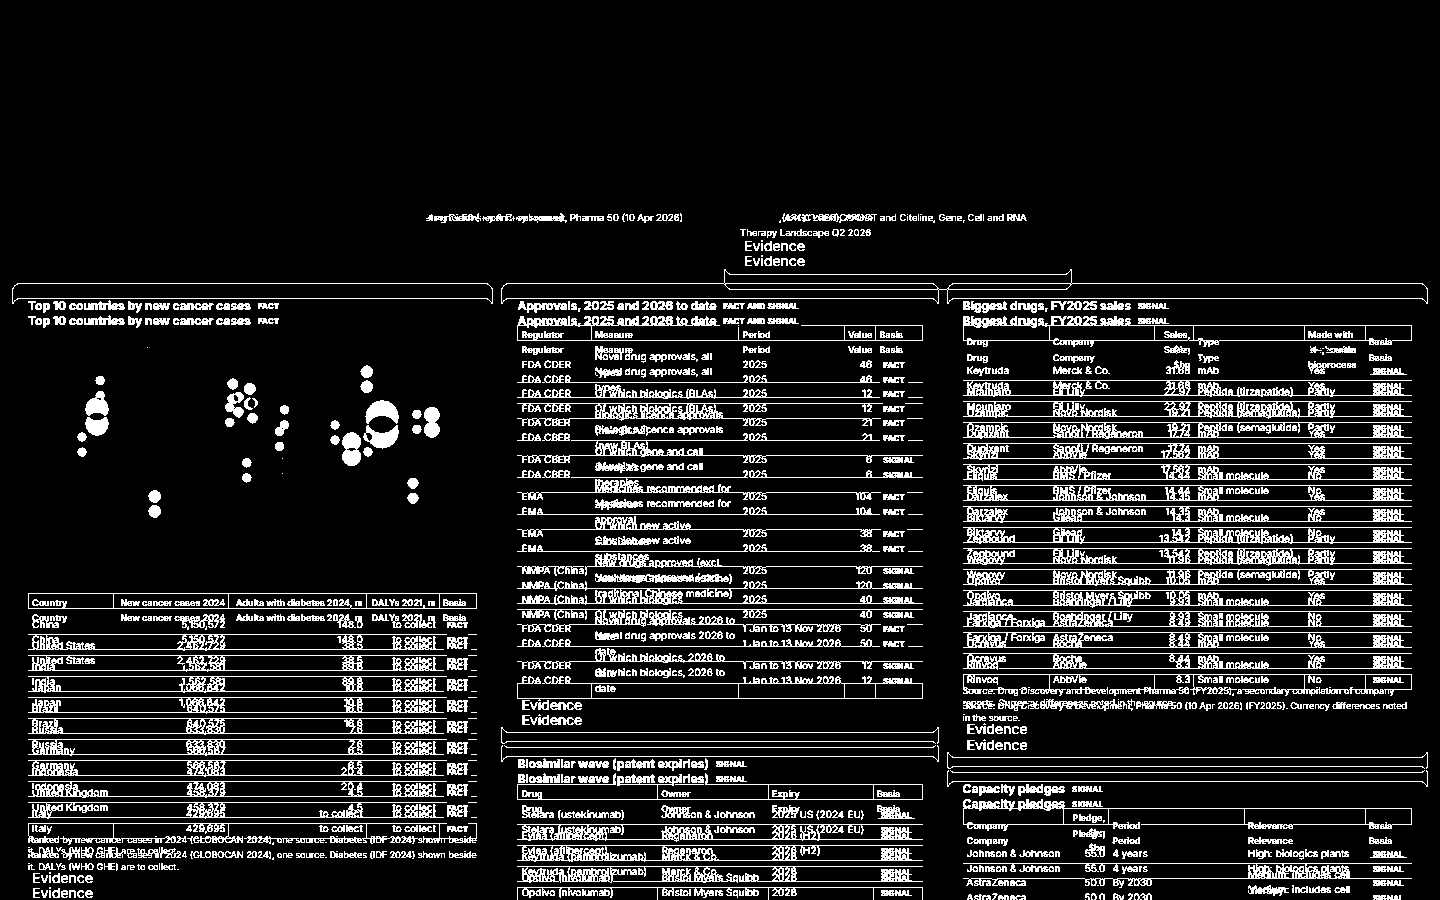
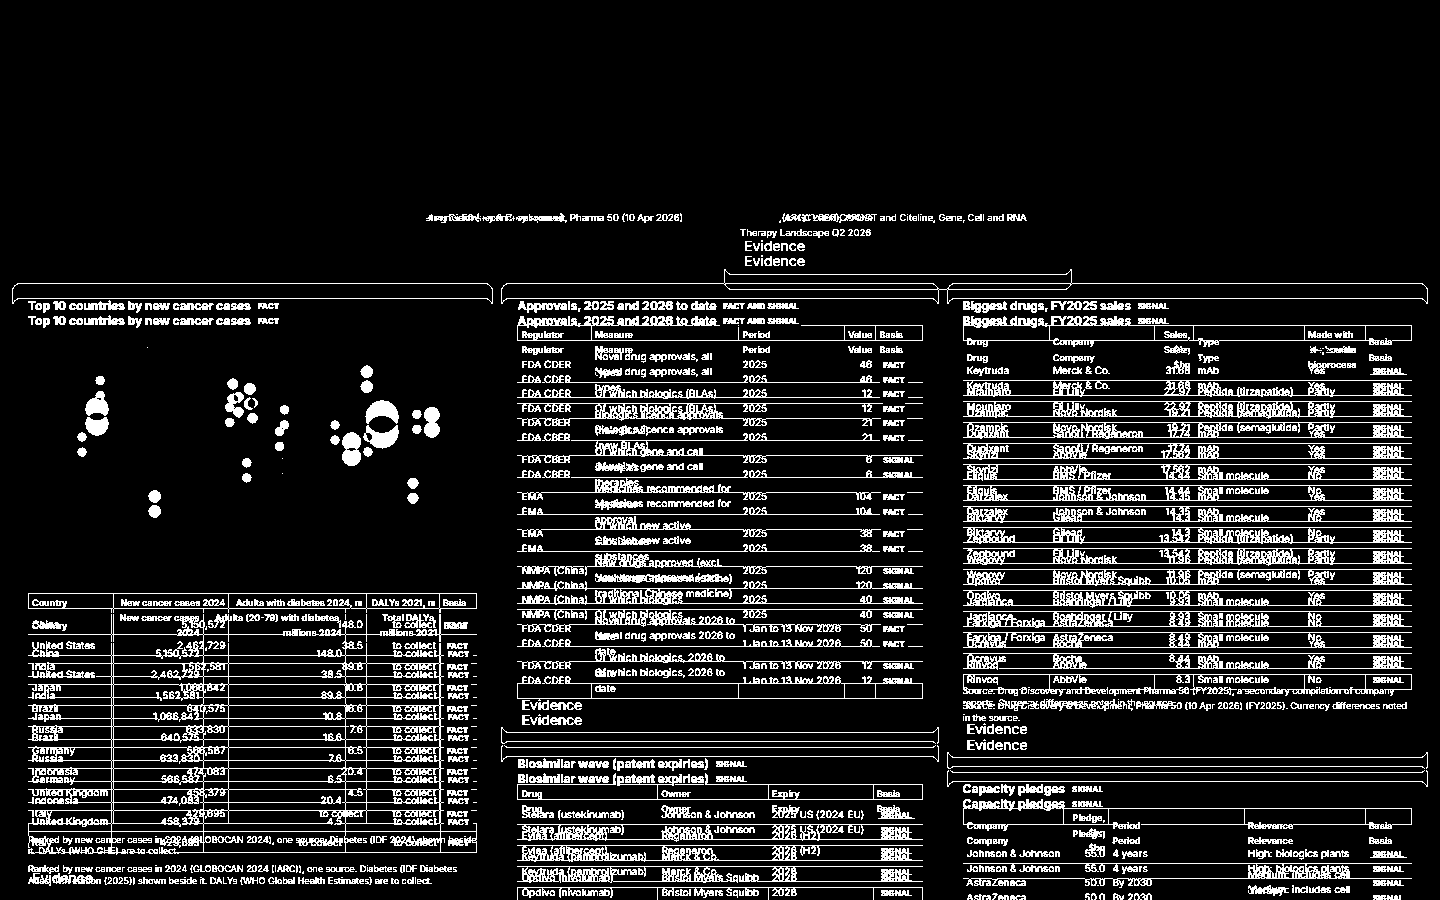
CD-61: audit and progress for round 7; check 2 passes for sheet-backed tables; check 4 still fails on a strict reading; screenshots re-taken (315 tests passed)

Changed region(s): [[0.0, 0.6844, 0.3438, 1.0]]

diff --git a/docs/Claude outputs/CLAUDE_data_architecture.md b/docs/Claude outputs/CLAUDE_data_architecture.md
@@ -1,0 +1,94 @@
+## Data architecture
+
+### Layers
+Data moves one way only: **Google Sheets → CSV snapshots → SQLite → screens**.
+
+1. **Seed sheets (Google Sheets)**
+   - This is where people maintain the data. It is not runtime storage.
+   - Read-only from code. **Never write to Google from code**: no API writes, no edits through a connector.
+2. **CSV snapshots (`data/<area>/sheet/*.csv`)**
+   - One file per tab, committed to git, so every data change shows up as a reviewable diff.
+   - Produced **only** by `scripts/export_seed_sheets.py`. Never type a CSV by hand, and never paste one from tool output.
+   - Sheet IDs and tab IDs (gids) live in `seed_sheet_gids.yaml`.
+   - The script uses the plain export URL `https://docs.google.com/spreadsheets/d/<id>/export?format=csv&gid=<gid>`. **Never** use `/gviz/tq`: it guesses one type per column and blanks the minority values.
+   - Each export logs the sheet ID, tab, row count and timestamp to `data/sheet_exports.log`.
+3. **SQLite (`data/app.db`)**
+   - Built from the CSVs by the loaders (`src/ingest/*.py`) during a refresh.
+   - The **only** source the screens read.
+4. **Screens (Streamlit)**
+   - Read from `app.db` through `src/metrics` and `src/domain`.
+   - Screens, metrics and domain modules must never import `src/ingest`; `tests/test_layers.py` enforces this.
+   - No network calls at runtime: never call Google, Miro, Lucid or a feed.
+
+Live feeds (share prices, news, security incidents) are the one exception to "sheet first":
+- A scheduled collector writes them **directly into `app.db`**.
+- Their sheets hold configuration and seed rows only: tickers, feed URLs, matching rules.
+- Feed data is not in the CSVs, so it needs its own backup or export.
+
+### Seed sheets
+| Area | Sheet | ID |
+|---|---|---|
+| Screen 1 Overview | Screen 1 – Overview data | `1k5MfRSdsziSTZgtIplwASKkCSlY3nLkfg8jpwqiA8Fg` |
+| Screen 2 Competitor coverage | Screen 2 – Market share data | `1EKU_0DEEWXGkAaFEWyrhT9WpdmlBRcgiPpTK6dcoqss` |
+| Screen 3 Customer clusters | Screen 3 sheet | `1asd0YHjtFgSCAmAeFbq_QIbYLXCc-AzjWgcZsTEteOk` |
+| Screen 4 Demand drivers | Screen 4 sheet | `12YV6UNxTET8WWUmzNG46KjQHeeFBBMaPS-zn-FM5-_o` |
+| Screen 5 Technology | Screen 5 – Technology data | `1Io-AbomyfDeRX-LOcxLNJ_YpaqiJbWVh8rSHsy_dgz4` |
+| Screen 6 China | Screen 6 – China data | `1wEndgjfRVTKSpNWlNFHdgZp_PWvnLnrca6UCHxzvvXI` |
+| Cytiva sites (screens 2, 6) | Danaher & Cytiva — Legal entities and sites | `1MPccYB-6lvaNS5HbDMP0kMzfpmMvQbL5fdorRQi27KM` |
+| Applications (screen 5) | Danaher & Cytiva — Applications and technology list | `16MYgBYe3_bxaSimXkR0UjoFcAHUe1gT-IkP8xhu1qKU` |
+
+The research file (`RESEARCH_FILE`, `1C1vMJ…`) is **not** a seed sheet. Don't read it for displayed data.
+
+The plain export returns **displayed** (formatted) values. A number format that rounds a value exports the rounded value.
+- Run `scripts/check_sheet_numbers.py` after every export, and fix any flag in the sheet's number format.
+- This risk goes away when the export moves to the Sheets API with a read-only service account. That move is also the planned fix for the sheets being link-shared; both are deferred.
+
+### Loader rules
+- Map columns **by header name** through each tab's header map, never by position. An unmapped or missing header fails the load.
+- Tabs with stacked tables are parsed by their section header rows; a missing section header fails the load.
+- Strip leading apostrophes. Parse numbers with or without thousands separators and percent signs. "n/d" and blank mean no number. Keep year fields as text or integers without separators.
+- A data row is one whose column A matches that tab's ID pattern (e.g. `^ST\d+$`, `^EOS-\d+$`). Rows labelled Note, Rule, Gap, Key, Candidates, Change log, 10-K note and similar go to `screen_notes`, never into data tables.
+- Upsert by the sheet's row ID, so the load is idempotent: running it twice gives the same row counts.
+- Values a sheet computes with formulas (counts, steps, shares, index averages) are **reference only**. Recompute them in `src/metrics`.
+- Link screen 5 rows to applications **only** through the explicit link columns, which use applications-list Names. Never match names by alias or by fuzzy matching.
+- Every load writes a parse report listing each cell it could not parse (row ID and cell). A non-empty report is a failure to look at, not to ignore.
+
+### Refresh
+- Each refresh writes one `refresh_run` row and records changes in `change_log`.
+- Each loader and feed step fails on its own. The failure is logged in `refresh_run.error`, the run continues, and a run with any failed step ends "completed with errors".
+- Checks enforced on load:
+  - **B-06 growth/YoY:** growth above 50% stores the row as unverified.
+  - **B-05 quote:** the check runs only where the evidence cell is a verbatim quote, with separators, units, currency and rounding normalised. Rows whose evidence starts with "Calculation", "Sum", "Derived" or "Same as" are basis Derived and skip the check. Rows with no evidence text are data gaps, not failures.
+- Unverified rows follow the L rule (see below).
+
+Steps:
+1. **Export:** `python scripts/export_seed_sheets.py`, then `python scripts/check_sheet_numbers.py`. Review the CSV diff in git.
+2. **Load:** run the refresh command. Check the parse report and `refresh_run` status.
+3. **Commit** the CSVs (and `app.db`, while it is still committed) together, with the refresh run ID in the message.
+
+Never load the database outside the refresh command. If a one-off migration is unavoidable, record it in `docs/phase0-migrations.md` (date, commit, row counts before and after).
+
+### Evidence and display rules
+- Every displayed row links to at least one `sources` row (title, publisher, date, URL, **type**). Source type comes from each sheet's Sources tab "Type" column. Register sites use the "Source type" columns V and W.
+- `confidence` is an enum: H, M or L.
+- One badge rule lives in `src/domain/confidence.py`:
+  - **FACT** = confidence H **and** a source of type Primary.
+  - **SIGNAL** = M, or H with a secondary source (trade press, aggregators, third-party job boards, mirrors).
+  - **UNCONFIRMED** = L or unverified. Hidden by default; one screen-level "Show unconfirmed (L)" toggle reveals them.
+  - **HYPOTHESIS** = implications and analyst scores, whatever their confidence.
+- Tile badge = the weakest row badge on the tile ("FACT AND SIGNAL" when mixed). Counts take the weakest badge of the rows they count.
+- Every tile has an Evidence dialog listing each displayed row with its value, badge, confidence and source, or the mark "no public source".
+- Estimates are never shown as data. A row with "Show on tile" = No in the sheet is never displayed.
+- No hard-coded numbers, dates, names, thresholds, tab names or URLs from the sheets in components or metrics. Build text from loaded rows. Thresholds live in one module in `src/domain`, with a comment per value.
+
+### Tests
+- Tests use a temporary database (`tests/conftest.py`). Never touch `data/app.db`.
+- Tests read the committed CSVs. Never call Google in the test suite.
+- Render tests (`tests/test_render.py`) and the badge walk test (`tests/test_badges.py`) cover every screen.
+- Run the **full** suite before every commit, and put the test count in the commit message. The suite takes several minutes, so use a long timeout.
+- Visual baseline: `scripts/visual_baseline.py` writes screenshots to `docs/visual-baseline/` at desktop width (1440) and phone width (390). Compare layout, not values, because the feeds change daily.
+
+### Database file
+- `data/app.db` is committed for now.
+- Planned: stop committing it and rebuild it from the CSVs with one refresh command, once feed data has its own backup.
+- Table naming convention and the deferred rename mapping are in `docs/refactor-audit.md` section 13. Name new tables by that convention.

diff --git a/docs/refactor-audit.md b/docs/refactor-audit.md
@@ -150,13 +150,13 @@ Severity: **H** (values or traceability wrong, or a rule in CLAUDE.md broken), *
 | B-09 | Open: map positions and country centres are reference constants; owner decision. |
 | B-10 | Partly. Every tile heading and row badge follows the rule. Stored labels remain only where there is no confidence: hypotheses (always Hypothesis). M&A deals and attention rows now derive their badge (evidence_label Derived). Loaders for clusters, China and technology still store a label without the source type. Open for the pipeline work. |
 | B-11 | Closed: the pipeline bar scale is the largest value on the tile. |
-| B-12 | Partly. Read from the data now: the biotech sales period, the pipeline period, the top-drug source title and year, the China headline period, and the map hover year (it said 2022 for 2024 data). Still typed, and open: the GLOBOCAN and IDF names, years in column headers and tile titles, and the Ocrevus note. These need a period and a source-name column in the sheet. |
+| B-12 | Partly. Read from the data: the demand display labels (cancer, diabetes and DALY measures, periods and source names, and the biosimilar note) from the demand README block; the biotech sales, pipeline and top-drug periods and sources; the China headline period; the map hover year. Still typed: the approvals tile title and the FDA card label (2025, 2026), the Q2 2026 pipeline note, the Tholos and WTO year notes, the layoff and Forbes year headers and tile titles, and the 'Trade openness index 2025' header. |
 | B-13 | Closed: the China share text is built from the stored rows (basis sentence). |
 | B-14 | Closed: every threshold is in src/domain/thresholds.py with a comment per value; the screens and metrics read them. tests/test_thresholds.py pins the boundaries. |
-| B-15 | Partly. Companies, product families and steps are in src/domain/coverage_model.py and tested against the grid stored from the sheet. The Cytiva literal is one constant. The F-03b row ID is gone. APP_EOS had no callers and is removed. Open: the link from an application to its end-of-support row has no column in the sheet, so it cannot be derived; a sheet column is needed. |
+| B-15 | Closed for the coverage lists and the end-of-support link: companies, families and steps are in src/domain/coverage_model.py, tested against the grid; the end-of-support rows link to their application through sheet column P (Application (list Name)), tested (tests/test_sheet_links.py); EOS-04 is blank by design. APP_EOS had no callers and is removed. |
 | B-16 | Closed: the company lists are in src/domain/companies.py, tested against the company table (tests/test_companies.py). |
 | B-17 | Closed. Screen 2 hypotheses come from the sheet T5 Implications tab (gid 14), always Hypothesis. The typed text is removed. |
-| B-18 | Partly. Screen 1 provenance text is read from the overview README rows by label (Prices source, Sartorius basis, Rankings status). Those three rows are not in the sheet README yet: until the owner adds them, the screen shows 'to collect' with the row name. No provenance sentence is typed in the code. |
+| B-18 | Closed: the three provenance rows (Prices source, Sartorius basis, Rankings status) are in the overview sheet README and read by label. No provenance text is typed in the code. |
 | B-19 | Closed: the note link reads "source", not one fixed document. |
 | B-20 | Closed: sheet tab names and the As of label are in src/domain/tabs.py. |
 | B-21 | Closed: the implications table shows the HYPOTHESIS badge; the dead _hyp_badge helper is removed. |
@@ -434,9 +434,9 @@ Risk note: steps 2, 5 and 9 change what a user sees. They wait for decisions in 
 | # | Check | Status today |
 |---|---|---|
 | 1 | Baseline tests still pass, plus new ones | **Passes**: 312 tests pass (baseline 195). |
-| 2 | Importing every sheet twice gives the same row counts, no duplicates | **Passes for every sheet-backed table**: the refresh ran twice on a copy of data/app.db; 82 tables compared, identical counts. One exception: news_item gained 1 item between the two runs (the external news feed changed; the upsert kept each URL once). |
-| 3 | Screenshots match the baseline at both widths | **Re-taken** (docs/visual-baseline). Against the previous set: demand (captions now read from the data) and coverage (the region card line now shows the sheet's full period, which wraps and moves the content below it) changed; overview changed in the basis column, the attention and deal badges, and the README placeholders for the three missing rows; China, clusters and technology changed little. Diff images are in docs/visual-diff/final-acceptance/. |
-| 4 | No component has a hard-coded company name, date, number or URL from the sheets | **Still fails**: B-12 is partly open (years in headers and tile titles, GLOBOCAN and IDF names); B-15 is partly open (end-of-support link); B-18 waits for three sheet README rows; B-03 and B-10 are open; B-14, B-16, B-17, B-20 and B-01 are closed. |
+| 2 | Importing every sheet twice gives the same row counts, no duplicates | **Passes for every sheet-backed table**: the refresh ran twice on a copy of data/app.db; 82 tables compared, identical counts. `news_item` grew by 11 between the two runs (the external news feed; each URL kept once). |
+| 3 | Screenshots match the baseline at both widths | **Re-taken** (docs/visual-baseline). Against the set committed before this round: demand (labels from the README block), coverage (the region card line now shows the full sheet period, which wraps), overview (badges and the three README rows), technology (application names on the end-of-support tile). Diff images in docs/visual-diff/final-acceptance-2/. |
+| 4 | No component has a hard-coded company name, date, number or URL from the sheets | **Still fails** (strict reading). Typed years remain in: the approvals tile title and the FDA card label (2025, 2026 to date); the Q2 2026 pipeline note; the layoff tile title and the Forbes and layoff year headers (2024 to 2026); the Tholos and WTO notes (2025); the trade openness header (2025); the overview EOS evidence row. Each needs its year in a sheet README row, or read from the row's period, before check 4 can pass. Also open: B-03 and B-10. |
 | 5 | Every displayed row appears in its tile's evidence dialog with at least one source URL, or is marked "no public source" | **Passes by test** (tests/test_evidence_tiles.py). A row without a public source shows "No public source yet: to collect" (B-04 remains a rule decision). Unverified rows are hidden by default, like L. |
 | 6 | No runtime code calls Google, Miro or Lucid APIs | **Passes**. The only external reference in the app is the Google Fonts stylesheet (B-23, owner decision). |
 | 7 | Lint, type checks and build are clean | **Lint and format pass** (ruff check, ruff format). Type check **not configured**. No build step. |

diff --git a/docs/phase0-migrations.md b/docs/phase0-migrations.md
@@ -144,3 +144,10 @@ Sheet re-export: data/china/sheet/headline.csv (H-10, H-11 evidence now starts "
 - New rows, no DDL: screen_notes gains the overview sheet's README rows under tab "Overview README" (13 rows; the sheet README exported to data/overview/sheet/readme.csv). Loaded in run 36.
 - The overview sheet README has no rows yet for "Prices source", "Sartorius basis" and "Rankings status". The screen shows "to collect" for each until the owner adds them.
 - Code-only: the tab names (src/domain/tabs.py), the thresholds (src/domain/thresholds.py), the company lists (src/domain/companies.py) and the coverage model (src/domain/coverage_model.py). No table or column changed.
+
+## Run 37 (23 Nov 2026): merge with main, sheet links and labels
+
+- DDL: tech_eos gains `application` (TEXT). Rows kept (7). Source: sheet column P, Application (list Name). EOS-04 is blank by design.
+- New rows, no DDL: screen_notes tab "Demand README" (the demand README rows, including the Display labels block). Loaded in run 37.
+- Merged origin/main (#117 and #118). The conflicts were screen 5; the branch's later decision (Show on tile = Yes only) is kept.
+- The database is refreshed in run 37 (succeeded). Row counts unchanged except tech_eos (application added) and screen_notes.

diff --git a/docs/phase0-progress.md b/docs/phase0-progress.md
@@ -420,3 +420,12 @@ Acceptance (audit section 12), final run:
 7. Lint and format pass; no type check configured.
 
 Not in this round: the "Data architecture" section for CLAUDE.md (the text did not come through with the message; add it when pasted). Table renames stay deferred (audit section 13).
+
+## Round 7 (23 Nov 2026): merge, sheet links, CLAUDE.md, acceptance
+
+- Merged origin/main into CD-61-visibility (merge commit 324e630). The conflicts were screen 5; the branch's later decision (Show on tile = Yes) is kept, and the applications ranking stays withdrawn.
+- Sheet columns re-exported: overview README rows (Prices source, Sartorius basis, Rankings status), technology end of support column P (application), demand README display labels.
+- B-15: end-of-support rows link to applications through column P. B-12: demand headers, top-10 title and note, and the Ocrevus note come from the README block. B-18: closed.
+- CLAUDE.md: data architecture section added; the draft file docs/claude-data-architecture.md is deleted. The parse-report rule is marked as a target: not built yet.
+- Tests: 315 pass.
+- Acceptance: check 2 passes for sheet-backed tables; check 4 still fails on a strict reading (typed years listed in audit section 12); screenshots re-taken.
